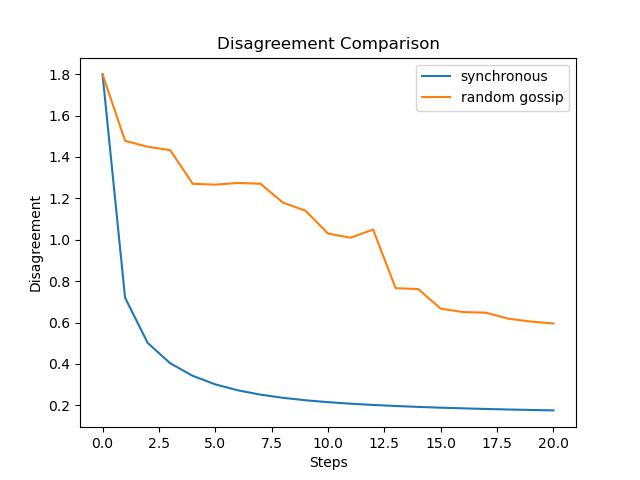
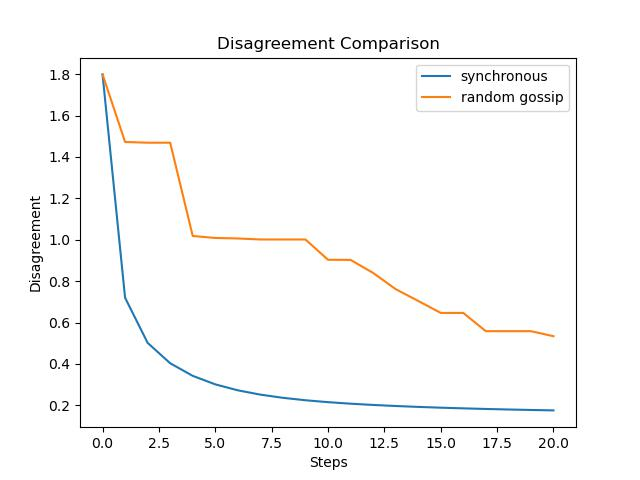
Fix randomized gossip and use legacy np random api

Changed region(s): [[0.1875, 0.2812, 0.875, 0.7188]]

diff --git a/hw3_functions.py b/hw3_functions.py
@@ -59,7 +59,7 @@ def randomized_gossip(x0, steps, seed):
     for step in range(steps):
         random_edge = np.random.random_integers(0, x0.shape[0]-1)
         gossip_steps[step+1, ] = gossip_steps[step, ].copy()
-        avg = (gossip_steps[step, (random_edge + 1) % x0.shape[0]] + gossip_steps[step, (random_edge - 1) % x0.shape[0]]) / 2
+        avg = (gossip_steps[step, (random_edge + 1) % x0.shape[0]] + gossip_steps[step, random_edge % x0.shape[0]]) / 2
         gossip_steps[step+1, (random_edge + 1) % x0.shape[0]] = avg
         gossip_steps[step+1, (random_edge) % x0.shape[0]] = avg
     return gossip_steps
@@ -123,7 +123,6 @@ def parallel_sgd(X, y, theta0, T, eta, K, batch_size, seed):
       'theta_hist' : (T+1, d) parameter trajectory
     """
     np.random.seed(seed)
-    rng = np.random.default_rng(seed)
     N, d = X.shape
 
     # Split the data into K shards 
@@ -142,7 +141,7 @@ def parallel_sgd(X, y, theta0, T, eta, K, batch_size, seed):
         grads = []
         for k in range(K):
             inds = shard_idx[k]
-            x_sample = rng.integers(len(inds), size=batch_size)
+            x_sample = np.random.randint(0, len(inds), size=batch_size)
 
             x_b = shard_X[k][x_sample]
             y_b = shard_y[k][x_sample]
@@ -189,7 +188,6 @@ def local_sgd(X, y, theta0, T, eta, K, batch_size, seed, tau):
       theta_hist : (T+1, d) parameter trajectory (after each averaging)
     """
     np.random.seed(seed)
-    rng = np.random.default_rng(seed)
     N, d = X.shape
 
     # Split the data into K shards 
@@ -206,10 +204,10 @@ def local_sgd(X, y, theta0, T, eta, K, batch_size, seed, tau):
 
     for t in range(1, T + 1):
         thetas = [theta.copy() for _ in range(K)]
-        for update in range(tau):
-            for k in range(K):
+        for k in range(K):
+            for update in range(tau):
                 inds = shard_idx[k]
-                sample_inds = rng.integers(len(inds), size=batch_size)
+                sample_inds = np.random.randint(0, len(inds), size=batch_size)
 
                 x_b = shard_X[k][sample_inds]
                 y_b = shard_y[k][sample_inds]
